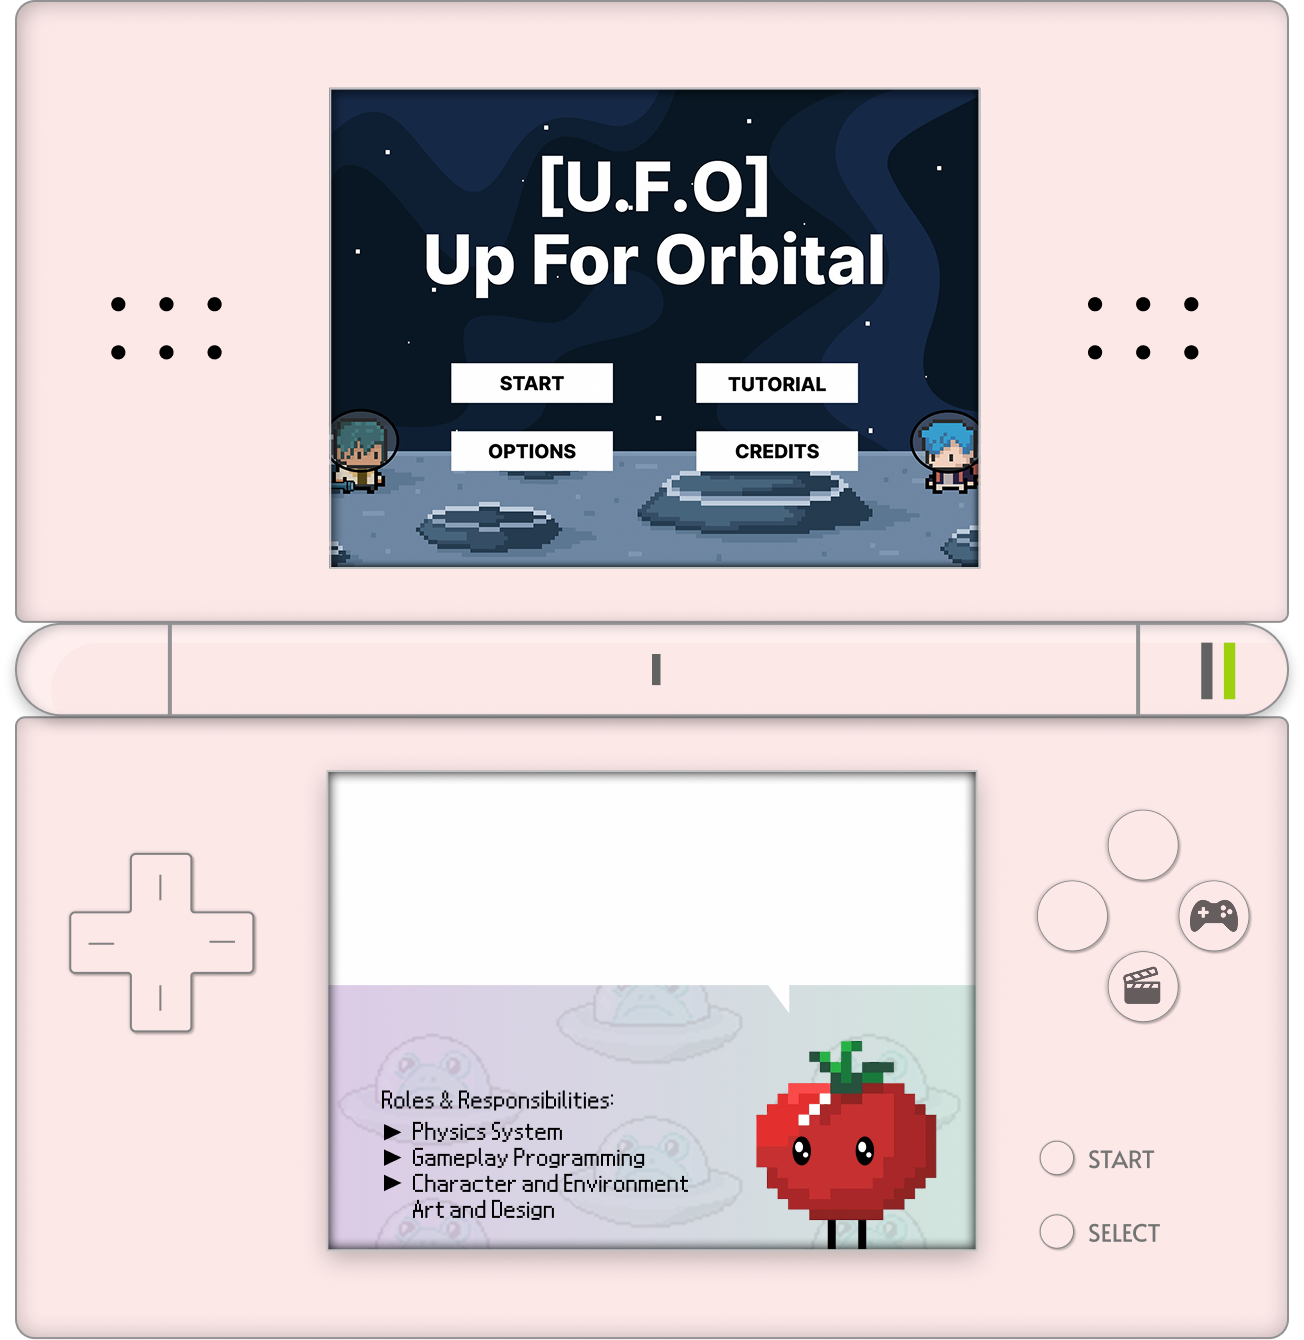
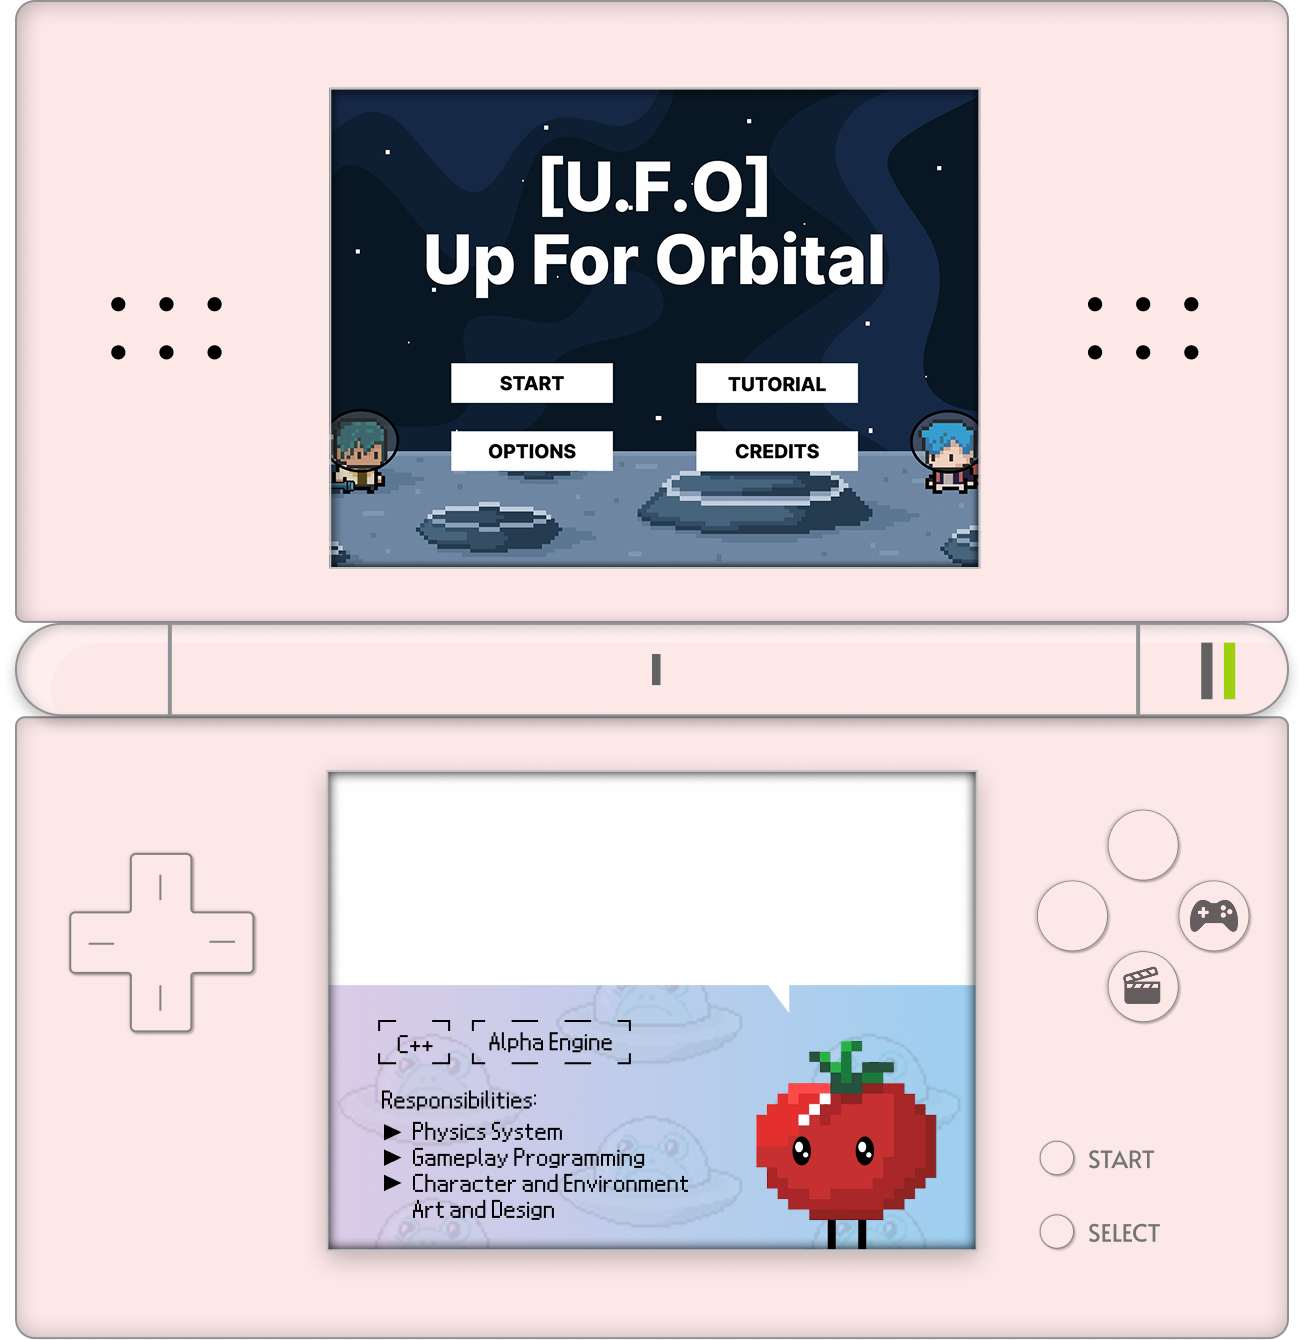
update assets

Changed region(s): [[0.3067, 0.7343, 0.7669, 0.9485]]

diff --git a/public/scripts/app.js b/public/scripts/app.js
@@ -106,36 +106,27 @@ $(function () {
   const states = [
     {
       image: '/images/spirit-ward-console.png',
-      description: 'A 3D third person shooter, base defense game built using a custom C++ game engine where you play as an exorcist defending the village from waves of malevolent spirits.',
-      roles: [
-        'Physics System (Game Engine)',
-        'Gameplay Programming',
-        'Game and Level Design'
-      ],
+      description: 'A 3D third person shooter, base defense game where you play as an exorcist defending the village from waves of malevolent spirits.',
       linkA: '',
       linkB: 'https://youtu.be/j0O26mtvuSg?si=3FLmM8-1SzUlELth'
     },
     {
       image: '/images/oceania-cove-console.png',
-      description: 'A 2D underwater farming simulation game built using a custom C++ game engine where you play as a farmer who got cursed into a mermaid and the only way back is to restore the village.',
-      roles: [
-        'Physics System (Game Engine)',
-        'Gameplay Programming',
-        'Game and Level Design'
-      ],
+      description: 'A 2D underwater farming simulation game where you play as a farmer who got cursed into a mermaid and the only way back is to restore the village.',
       linkA: 'https://youtu.be/IydYx104NZE',
       linkB: 'https://youtu.be/iLDsiJ5qqEc'
     },
     {
       image: '/images/ufo-console.png',
-      description: 'A 2D pixelated, space-themed multiplayer arcade style game built using AlphaEngine where you solve puzzles, race through obstacles, and shoot alien mobs!',
-      roles: [
-        'Physics System (Game Engine)',
-        'Gameplay Programming',
-        'Game and Level Design'
-      ],
+      description: 'A 2D pixelated, space-themed multiplayer arcade style game where you solve puzzles, race through obstacles, and shoot alien mobs!',
       linkA: 'https://youtu.be/NkHQmg0uh3A',
       linkB: 'https://youtu.be/KECUlB1n-dI'
+    },
+    {
+      image: '/images/bullet-dream-console.png',
+      description: 'A 2D Touhou-inspired bullet hell game where you navigate through a dream, dodge bullets and monsters, pass through a maze, and solve puzzles.',
+      linkA: '',
+      linkB: 'https://youtu.be/cNtIHYduhg8'
     }
   ];
 
@@ -157,11 +148,11 @@ $(function () {
       $description.text(state.description);
 
       if (!state.linkA) {
-        $aBtn.addClass('disabled');
+        $aBtn.hide();
         $aBtn.attr('href', '#');
         $aBtn.off('click').on('click', e => e.preventDefault());
       } else {
-        $aBtn.removeClass('disabled');
+        $aBtn.show();
         $aBtn.attr('href', state.linkA);
         $aBtn.off('click');
       }
